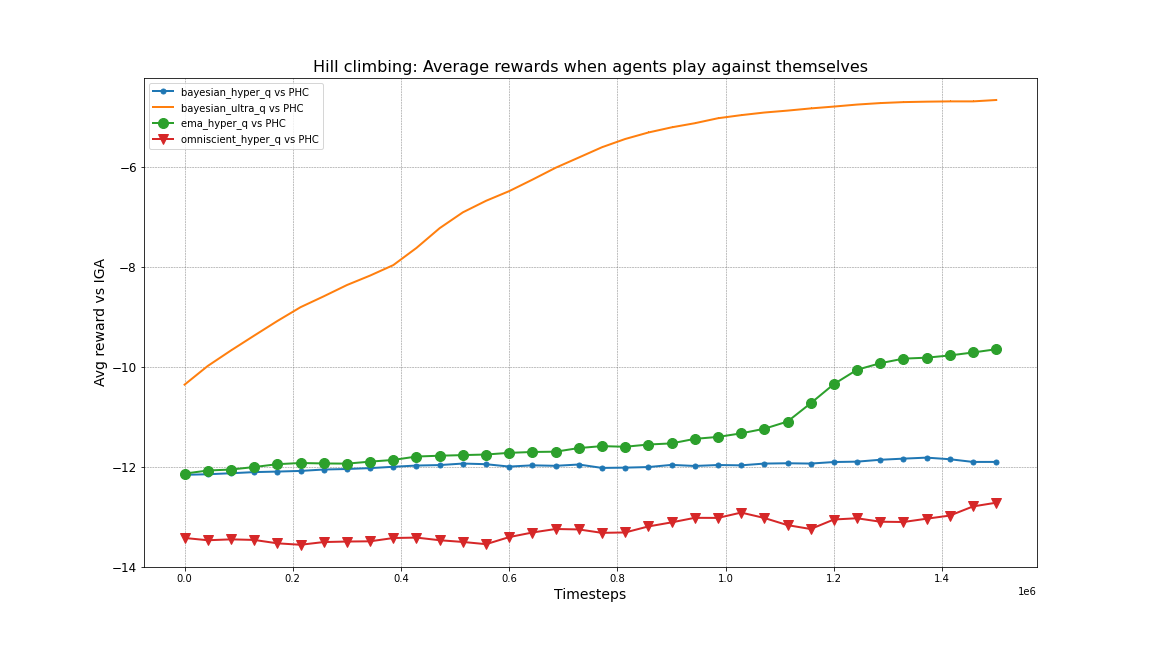
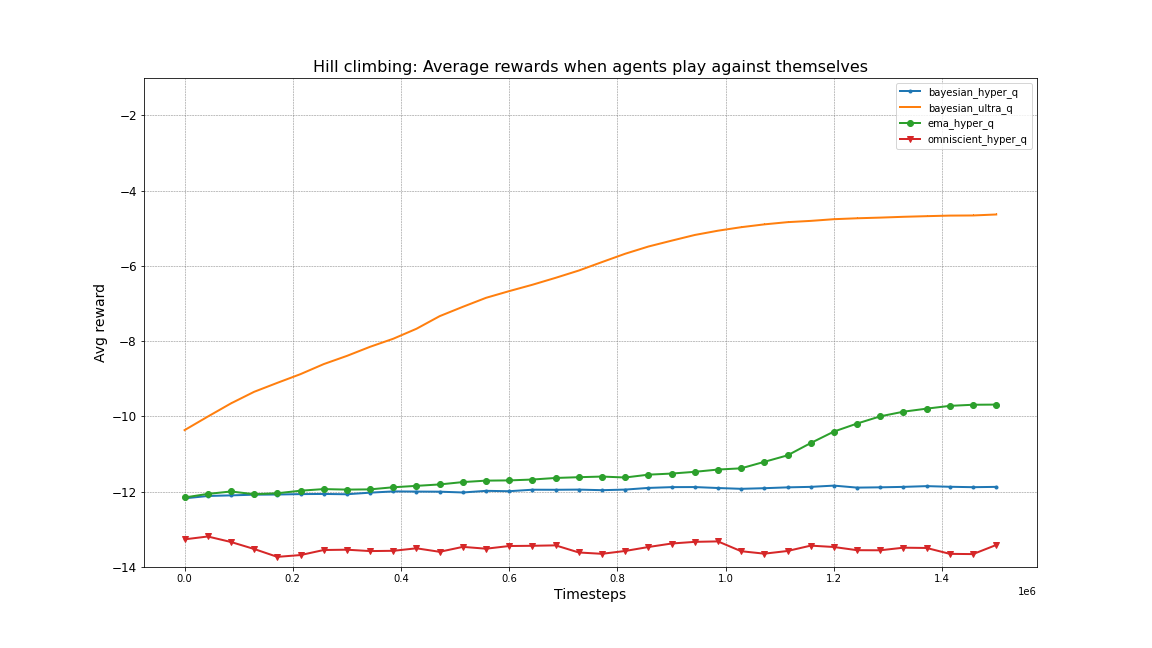
generate strategies: hill climbing

diff --git a/src/agent/PHC.cpp b/src/agent/PHC.cpp
@@ -9,7 +9,7 @@ PHC::PHC(float alpha_, float delta_, float gamma_, std::optional<double> init) {
     delta = static_cast<double>(delta_);
     gamma = static_cast<double>(gamma_);
     current_state = 0;
-    current_action = 0;
+    //current_action = 0; TODO: REMOVE HERE
 
     // q table creation.
     if (init.has_value()) {
@@ -28,7 +28,7 @@ PHC::PHC(float alpha_, float delta_, float gamma_, std::optional<double> init) {
 
     // policy table creation.
     for (int state = 0; state < 9; state++) {
-        // probabilities 
+        // probabilities
         double p1 = static_cast<double>(rand()) / RAND_MAX;
         double p2 = static_cast<double>(rand()) / RAND_MAX;
         double p3 = static_cast<double>(rand()) / RAND_MAX;
@@ -50,27 +50,28 @@ double PHC::observe(Reward r, Action action_x, Strategy x, Action action_y, Stra
     (void) x;
     (void) true_y;
 
+    // replace all current_action w/ action_x
     // get next state.
-    unsigned long next_state = 3 * current_action + action_y;
+    unsigned long next_state = 3 * action_x + action_y;
 
     // get the q value for current state, and the max q value for the next state.
-    double q = q_table[current_state][current_action];
+    double q = q_table[current_state][action_x];
     double q_max_next = *std::max_element(q_table[next_state], q_table[next_state] + 3);
 
     // update q table.
-    q_table[current_state][current_action] = (1 - alpha) * q + alpha * (r + (gamma * q_max_next));
+    q_table[current_state][action_x] = (1 - alpha) * q + alpha * (r + (gamma * q_max_next));
 
     // update policy table.
     double update = 0;
-    if (current_action == static_cast<unsigned long>(std::distance(q_table[current_state],
-                                                                   std::max_element(q_table[current_state],
-                                                                                    q_table[current_state] + 3)))) {
+    if (action_x == static_cast<unsigned long>(std::distance(q_table[current_state],
+                                                             std::max_element(q_table[current_state],
+                                                                              q_table[current_state] + 3)))) {
         // i.e., if the current action equals argmax(Q[current_state]), then,
         update = delta;
     } else {
         update = (-delta) / (3 - 1);
     }
-    policy_table[current_state][current_action] += update;
+    policy_table[current_state][action_x] += update;
 
     // probability boundaries
     for (unsigned long state = 0; state < 9; state++) {
@@ -95,3 +96,102 @@ double PHC::observe(Reward r, Action action_x, Strategy x, Action action_y, Stra
 
     return NAN;
 }
+
+
+//#include "PHC.h"
+//#include <algorithm>
+//#include <cmath>
+//
+//// http://www.cs.cmu.edu/~mmv/papers/01ijcai-mike.pdf
+//
+//PHC::PHC(float alpha_, float delta_, float gamma_, std::optional<double> init) {
+//    alpha = static_cast<double>(alpha_);
+//    delta = static_cast<double>(delta_);
+//    gamma = static_cast<double>(gamma_);
+//    current_state = 0;
+//    current_action = 0;
+//
+//    // q table creation.
+//    if (init.has_value()) {
+//        for (auto &q: q_table) {
+//            for (auto &q_value: q) {
+//                q_value = init.value();
+//            }
+//        }
+//    } else {
+//        for (auto &q: q_table) {
+//            for (auto &q_value: q) {
+//                q_value = static_cast<double>(rand()) / RAND_MAX;
+//            }
+//        }
+//    }
+//
+//    // policy table creation.
+//    for (int state = 0; state < 9; state++) {
+//        // probabilities
+//        double p1 = static_cast<double>(rand()) / RAND_MAX;
+//        double p2 = static_cast<double>(rand()) / RAND_MAX;
+//        double p3 = static_cast<double>(rand()) / RAND_MAX;
+//
+//        double sum = p1 + p2 + p3;
+//
+//        policy_table[state] = {p1 / sum, p2 / sum, p3 / sum};
+//    }
+//}
+//
+//
+//std::tuple<Action, Strategy, Reward> PHC::act() {
+//    auto action = Agent::strategy_to_action(policy_table[current_state]);
+//    return {action, policy_table[current_state], NAN};
+//}
+//
+//double PHC::observe(Reward r, Action action_x, Strategy x, Action action_y, Strategy true_y) {
+//    // silence unused parameters.
+//    (void) x;
+//    (void) true_y;
+//
+//    // get next state.
+//    unsigned long next_state = 3 * current_action + action_y;
+//
+//    // get the q value for current state, and the max q value for the next state.
+//    double q = q_table[current_state][current_action];
+//    double q_max_next = *std::max_element(q_table[next_state], q_table[next_state] + 3);
+//
+//    // update q table.
+//    q_table[current_state][current_action] = (1 - alpha) * q + alpha * (r + (gamma * q_max_next));
+//
+//    // update policy table.
+//    double update = 0;
+//    if (current_action == static_cast<unsigned long>(std::distance(q_table[current_state],
+//                                                                   std::max_element(q_table[current_state],
+//                                                                                    q_table[current_state] + 3)))) {
+//        // i.e., if the current action equals argmax(Q[current_state]), then,
+//        update = delta;
+//    } else {
+//        update = (-delta) / (3 - 1);
+//    }
+//    policy_table[current_state][current_action] += update;
+//
+//    // probability boundaries
+//    for (unsigned long state = 0; state < 9; state++) {
+//        for (unsigned long i = 0; i < 3; i++) {
+//            if (policy_table[state][i] < 0.0) { policy_table[state][i] = 0.0; }
+//            if (policy_table[state][i] > 1.0) { policy_table[state][i] = 1.0; }
+//        }
+//    }
+//
+//    // normalize new policy values.
+//    double sum = 0;
+//    for (unsigned long state = 0; state < 9; state++) {
+//        sum = policy_table[state][0] + policy_table[state][1] + policy_table[state][2];
+//
+//        for (unsigned long i = 0; i < 3; i++) {
+//            policy_table[state][i] = static_cast<double>(policy_table[state][i] / sum);
+//        }
+//    }
+//
+//    // update current state.
+//    current_state = next_state;
+//
+//    return NAN;
+//}

diff --git a/results analysis/main.py b/results analysis/main.py
@@ -317,8 +317,8 @@ def average_reward_hyperq_vs_other(experiment_data, ma_window_sizes, subsampling
 def save_rewards_file():
     game_directories, game_names = get_directories_in_dir(DATA_ROOT)
     for game_directory, game_name in zip(game_directories, game_names):
-        if game_name == "hill_climbing":
-        # if game_name == "rock_paper_scissors":
+        # rock_paper_scissors
+        if not game_name == "hill_climbing":
             continue
 
         first_agents_directories, first_agents = get_directories_in_dir(game_directory)
@@ -349,7 +349,7 @@ def save_rewards_file():
 
                     #(251,)
                     data = average_reward_hyperq_vs_other(runs,
-                                        ma_window_sizes=1_000,
+                                        ma_window_sizes=10_000,
                                         # ma_window_sizes=100_000,
                                         subsampling_rate=100,
                                         agent_idx=REWARDS_PLAYER_X, 
@@ -601,47 +601,59 @@ def plot_average_rewards_hill_climbing(directory, game, marker_size=20, sampling
 
 
 if __name__=="__main__":
-    runs = load_experiment_data(r"C:\GitHub\Hyper-Q\results analysis\example_data\results_official\hill_climbing\bayesian_ultra_q\bayesian_ultra_q\1")
+    # runs = load_experiment_data(r"C:\GitHub\Hyper-Q\results analysis\example_data\results_official\hill_climbing\bayesian_ultra_q\bayesian_ultra_q\1")
     
 
 
-    game_name = "Hill Climbing"
-    agent_x_type = "bayesian_ultra_q"
-    agent_y_type = "bayesian_ultra_q"
-    second_agent = "bayesian_ultra_q"
-    game = game_name
-    configuration = "1"
+    # game_name = "Hill Climbing"
+    # agent_x_type = "bayesian_ultra_q"
+    # agent_y_type = "bayesian_ultra_q"
+    # second_agent = "bayesian_ultra_q"
+    # game = game_name
+    # configuration = "1"
 
-    agent_x_experiment_strategies_over_time = runs[:, :, ACTIONS_PLAYER_X_STARTING_IDX:ACTIONS_PLAYER_X_STARTING_IDX+3]
-    agent_y_experiment_strategies_over_time = runs[:, :, ACTIONS_PLAYER_Y_STARTING_IDX:ACTIONS_PLAYER_Y_STARTING_IDX+3]
-    plot_strategy_over_time_single_agent(agent_x_experiment_strategies_over_time, title=f"{game_name}: {agent_x_type} strategy evolution", ma_window_size=5000)
-    plot_strategy_over_time_single_agent(agent_y_experiment_strategies_over_time, title=f"{game_name}: {agent_y_type} strategy evolution", ma_window_size=5000)
+    # agent_x_experiment_strategies_over_time = runs[:, :, ACTIONS_PLAYER_X_STARTING_IDX:ACTIONS_PLAYER_X_STARTING_IDX+3]
+    # agent_y_experiment_strategies_over_time = runs[:, :, ACTIONS_PLAYER_Y_STARTING_IDX:ACTIONS_PLAYER_Y_STARTING_IDX+3]
+    # plot_strategy_over_time_single_agent(agent_x_experiment_strategies_over_time, title=f"{game_name}: {agent_x_type} strategy evolution", ma_window_size=5000)
+    # plot_strategy_over_time_single_agent(agent_y_experiment_strategies_over_time, title=f"{game_name}: {agent_y_type} strategy evolution", ma_window_size=5000)
 
 
-    #%%
-    print(runs.shape)
+    # #%%
+    # print(runs.shape)
 
-    # take one run
-    run = runs[6]
+    # # take one run
+    # run = runs[6]
 
-    # expand dimension
-    run = np.expand_dims(run, axis=0)
+    # # expand dimension
+    # run = np.expand_dims(run, axis=0)
 
-    agent_x_experiment_strategies_over_time = run[:, :, ACTIONS_PLAYER_X_STARTING_IDX:ACTIONS_PLAYER_X_STARTING_IDX+3]
-    agent_y_experiment_strategies_over_time = run[:, :, ACTIONS_PLAYER_Y_STARTING_IDX:ACTIONS_PLAYER_Y_STARTING_IDX+3]
+    # agent_x_experiment_strategies_over_time = run[:, :, ACTIONS_PLAYER_X_STARTING_IDX:ACTIONS_PLAYER_X_STARTING_IDX+3]
+    # agent_y_experiment_strategies_over_time = run[:, :, ACTIONS_PLAYER_Y_STARTING_IDX:ACTIONS_PLAYER_Y_STARTING_IDX+3]
 
-    plot_strategy_over_time_single_agent(agent_x_experiment_strategies_over_time, title=f"{game_name}: {agent_x_type} strategy evolution", ma_window_size=5000)
-    plot_strategy_over_time_single_agent(agent_y_experiment_strategies_over_time, title=f"{game_name}: {agent_y_type} strategy evolution", ma_window_size=5000)
-
-    
+    # plot_strategy_over_time_single_agent(agent_x_experiment_strategies_over_time, title=f"{game_name}: {agent_x_type} strategy evolution", ma_window_size=5000)
+    # plot_strategy_over_time_single_agent(agent_y_experiment_strategies_over_time, title=f"{game_name}: {agent_y_type} strategy evolution", ma_window_size=5000)
 
 
 
 
 
-    # save_rewards_file()
+
+
+    save_rewards_file()
     # plot_average_rewards_rock_paper_scissors(r"C:\GitHub\Hyper-Q\results analysis\example_data\results_official\rock_paper_scissors", game="Rock paper scissors", marker_size=6, sampling_rate=40)
-    # plot_average_rewards_hill_climbing(r"C:\GitHub\Hyper-Q\results analysis\example_data\results_official\hill_climbing", game="Hill climbing", marker_size=6, sampling_rate=40)
+    plot_average_rewards_hill_climbing(r"C:\GitHub\Hyper-Q\results analysis\example_data\results_official\hill_climbing", game="Hill climbing", marker_size=6, sampling_rate=40)
+
+
+
+
+
+
+
+
+
+
+
+
 
 
 
